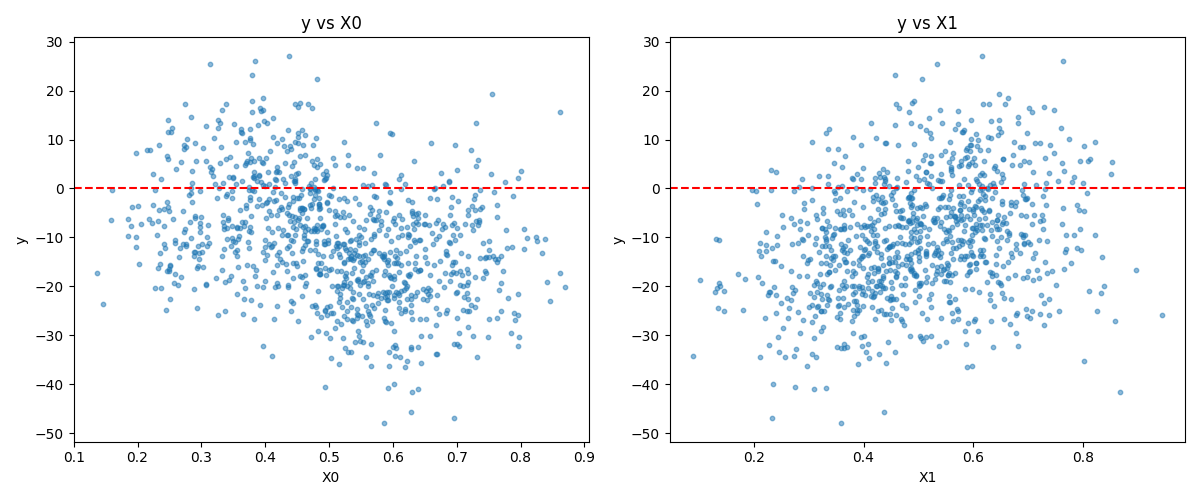
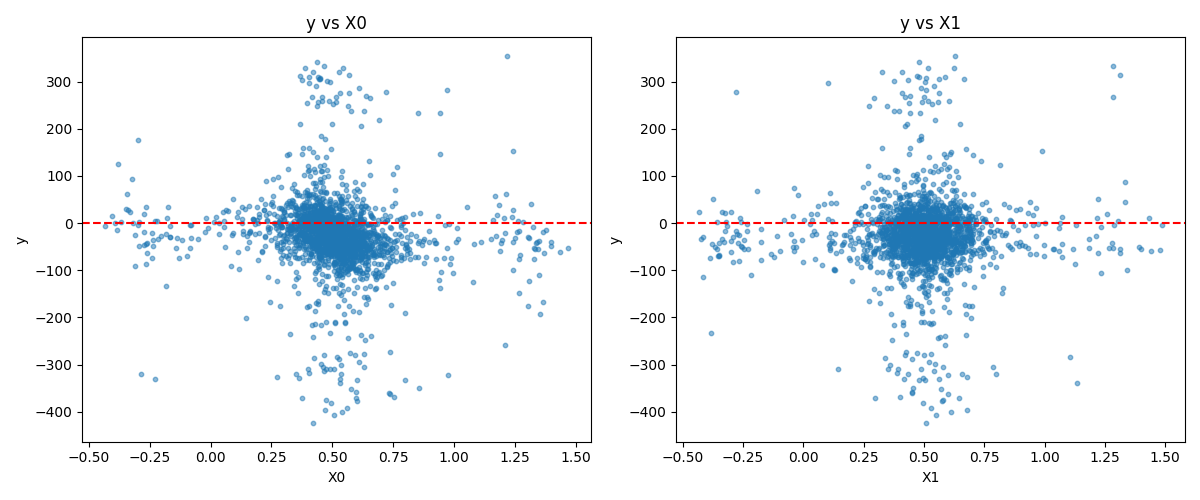
trading test

diff --git a/tests/test_trading.py b/tests/test_trading.py
@@ -7,18 +7,18 @@ from better_regressions.scaling import AutoScaler, Scaler
 from better_regressions.smoothing import Smooth
 from rich.console import Console
 from rich.table import Table
+from sklearn.gaussian_process import GaussianProcessRegressor
+from sklearn.gaussian_process.kernels import Matern, RBF, WhiteKernel
 from sklearn.metrics import mean_squared_error
 from sklearn.model_selection import KFold, train_test_split
-
 from tests.data import CURVES
 
 
-def generate_trading_dataset(n_samples: int = 1000, n_features: int = 10, seed: int = 42, noise_level: float = 0.0, noise_type: Literal["gaussian", "cauchy"] = "gaussian") -> tuple[np.ndarray, np.ndarray]:
+def generate_trading_dataset(n_samples: int = 2000, n_features: int = 10, seed: int = 42, noise_level: float = 0.5, noise_type: Literal["gaussian", "cauchy"] = "cauchy") -> tuple[np.ndarray, np.ndarray]:
     """Generate a synthetic trading dataset.
 
     X features are distributed as Beta(5, 5) on [0, 1].
     y is defined as sum_i f_i(X_i), where f_i is given by i-th curve from data.py.
-    y is shifted so that only 20% of points are profitable.
 
     Args:
         n_samples: Number of data points to generate
@@ -31,31 +31,36 @@ def generate_trading_dataset(n_samples: int = 1000, n_features: int = 10, seed: 
         X: Feature matrix with shape (n_samples, n_features)
         y: Target vector with shape (n_samples,)
     """
+    n_features = min(n_features, len(CURVES))
     rng = np.random.RandomState(seed)
 
-    # Generate Beta(5, 5) distributed features on [0, 1]
-    X = rng.beta(5, 5, size=(n_samples, n_features))
+    X = rng.beta(20, 20, size=(n_samples, n_features))
+    scales0 = np.exp(rng.randn(n_features))
+    scales1 = np.exp(rng.randn(n_features))
 
     # Initialize target
     y = np.zeros(n_samples)
 
     # For each feature, add the corresponding curve value using interpolation
-    for i in range(min(n_features, len(CURVES))):
+    for i in range(n_features):
         # Create x points for interpolation (normalized curve indices)
         x_points = np.linspace(0, 1, len(CURVES[i]))
+        scales = scales0[i] + (scales1[i] - scales0[i]) * np.linspace(-1, 1, n_samples) ** 3
         # Interpolate using feature values
-        y += np.interp(X[:, i], x_points, CURVES[i])
+        y += np.interp(X[:, i], x_points, CURVES[i]) * scales
 
     # Add noise if specified
     if noise_level > 0:
         if noise_type == "gaussian":
-            y += rng.randn(size=n_samples) * noise_level
+            X += rng.randn(n_samples, n_features) * (noise_level * X.std(axis=0, keepdims=True))
+            y += rng.randn(n_samples) * noise_level * y.std()
         elif noise_type == "cauchy":
-            y += rng.standard_cauchy(size=n_samples) * noise_level
+            C = 20
+            X += np.clip(rng.standard_cauchy(size=(n_samples, n_features)), -C, C) * (noise_level * X.std(axis=0, keepdims=True))
+            y += np.clip(rng.standard_cauchy(size=n_samples), -C, C) * noise_level * y.std()
 
-    # Shift y so that only 20% of points are profitable
-    percentile_80 = np.percentile(y, 80)
-    y -= percentile_80
+    baseline = np.percentile(y, 70)
+    y -= baseline
 
     return X, y
 
@@ -63,12 +68,12 @@ def generate_trading_dataset(n_samples: int = 1000, n_features: int = 10, seed: 
 def test_visualize_trading_dataset():
     """Visualize the generated trading dataset."""
     # Generate dataset
-    X, y = generate_trading_dataset(n_samples=1000, n_features=10, noise_level=5.0)
+    X, y = generate_trading_dataset(n_features=10)
 
     # Visualize X0 distribution
     plt.figure(figsize=(6, 4))
     plt.hist(X[:, 0], bins=30, alpha=0.7)
-    plt.title("X0 Distribution (Beta(5, 5))")
+    plt.title("X0 Distribution")
     plt.xlabel("X0")
     plt.ylabel("Frequency")
     plt.savefig("x0_distribution.png")
@@ -121,7 +126,7 @@ def calculate_metrics(model: Callable, X_train: np.ndarray, y_train: np.ndarray,
     mse = mean_squared_error(y_test, preds)
 
     # Calculate profit: max(prediction, 0) * actual_y
-    profits = np.maximum(preds, 0) * y_test
+    profits = np.clip(preds, 0, 0.1 * y_train.std()) * y_test
 
     # Calculate mean profit and Sharpe ratio
     mean_profit = np.mean(profits)
@@ -133,19 +138,25 @@ def calculate_metrics(model: Callable, X_train: np.ndarray, y_train: np.ndarray,
 def test_trading_regressors():
     """Test different regressors on the trading dataset."""
     # Generate dataset with noise
-    X, y = generate_trading_dataset(n_samples=2000, n_features=10, noise_level=10.0, noise_type="gaussian")
+    X, y = generate_trading_dataset(n_features=10)
 
     # Split into train and test
     X_train, X_test, y_train, y_test = train_test_split(X, y, test_size=0.3, random_state=42)
 
     # Models to test
-    models = {"Scaler(Linear())": Scaler(Linear()), "AutoScaler(Linear())": AutoScaler(Linear()), "AutoScaler(Smooth('angle'))": AutoScaler(Smooth(method="angle"))}
+    models = {
+        "Scaler(Linear())": Scaler(Linear()),
+        "AutoScaler(Linear())": AutoScaler(Linear()),
+        "AutoScaler(Smooth('angle'))": AutoScaler(Smooth(method="angle")),
+        "Scaler(GP(Matern() + WhiteKernel()))": Scaler(GaussianProcessRegressor(kernel=Matern() + WhiteKernel())),
+        "Scaler(GP(RBF() + WhiteKernel()))": Scaler(GaussianProcessRegressor(kernel=RBF() + WhiteKernel())),
+    }
 
     # Results storage
     results = {name: {"mse": [], "profit": [], "sharpe": []} for name in models}
 
     # Cross-validation with multiple folds
-    kf = KFold(n_splits=5, shuffle=True, random_state=42)
+    kf = KFold(n_splits=5, shuffle=True)  # , random_state=42)
 
     for train_idx, val_idx in kf.split(X_train):
         X_fold_train, X_fold_val = X_train[train_idx], X_train[val_idx]
@@ -182,8 +193,5 @@ def test_trading_regressors():
 
 
 if __name__ == "__main__":
-    # Run visualizations
     test_visualize_trading_dataset()
-
-    # Run regressor comparisons
     test_trading_regressors()
